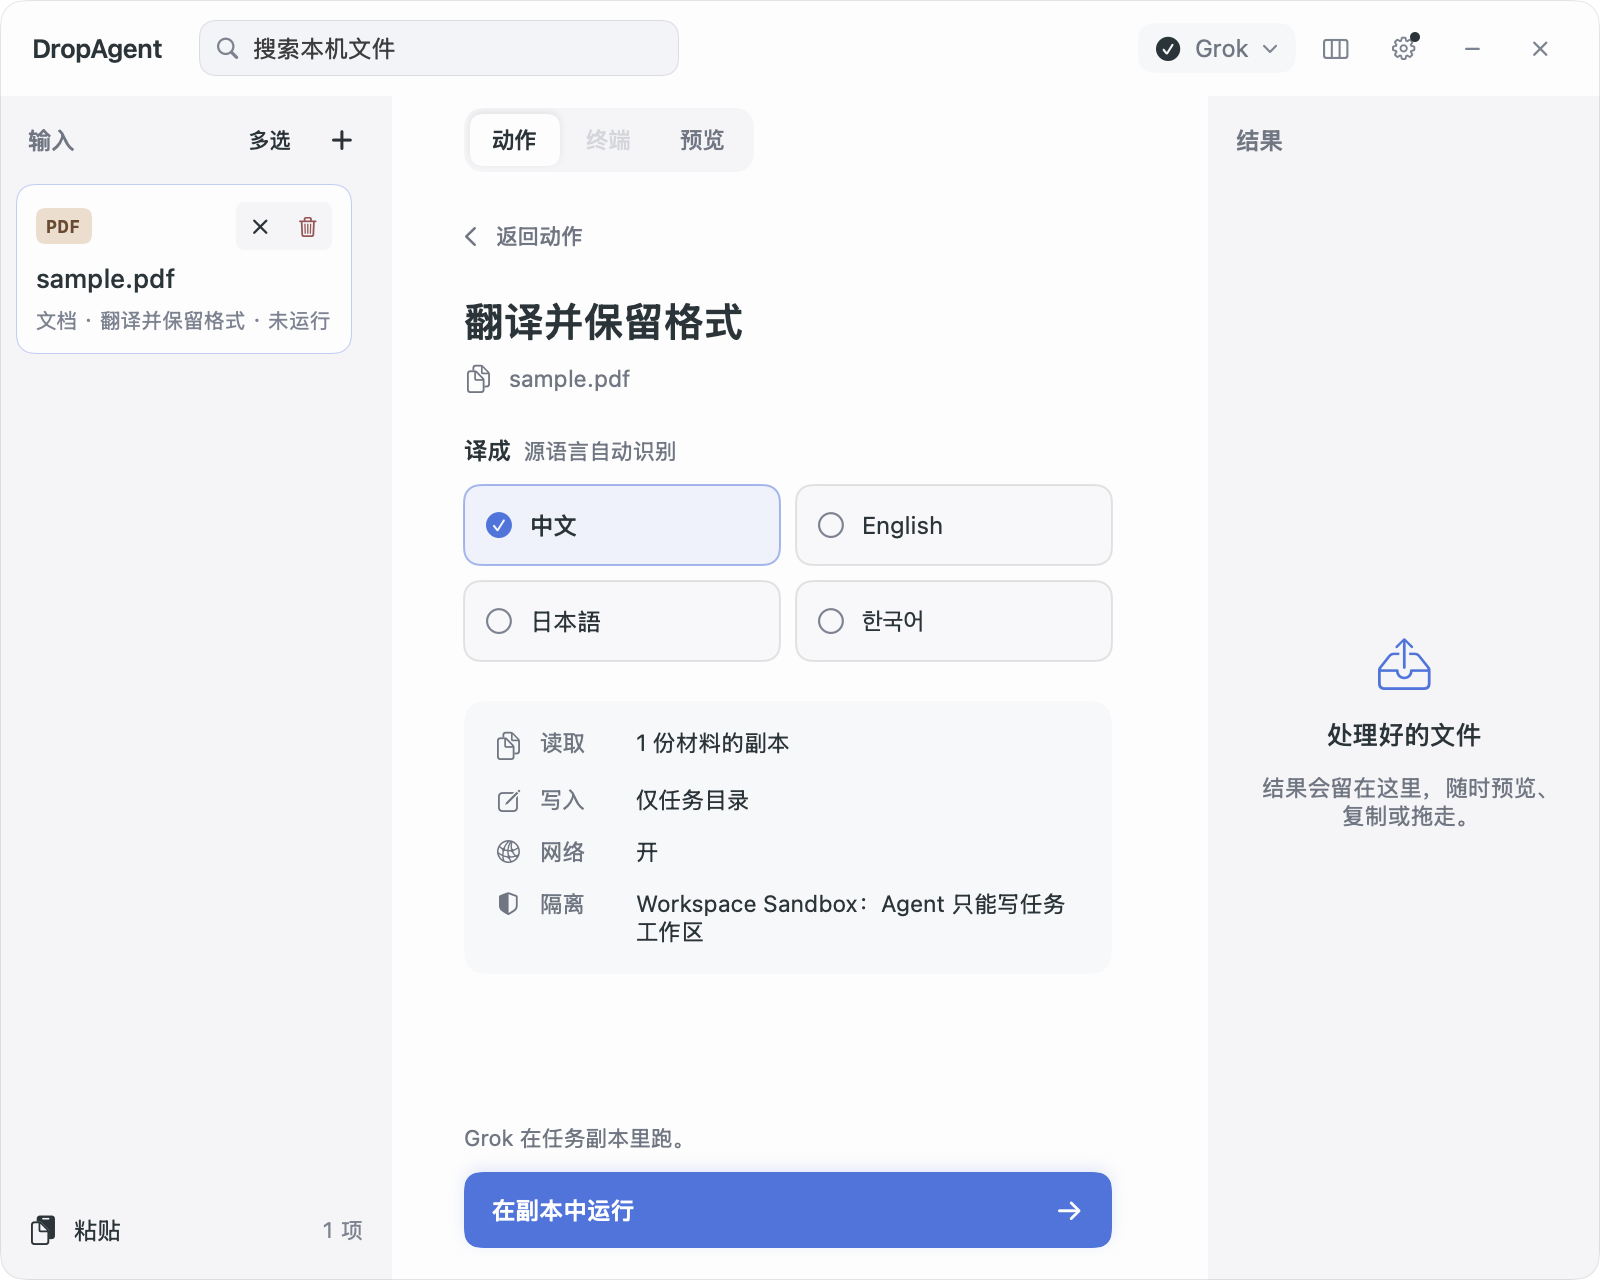
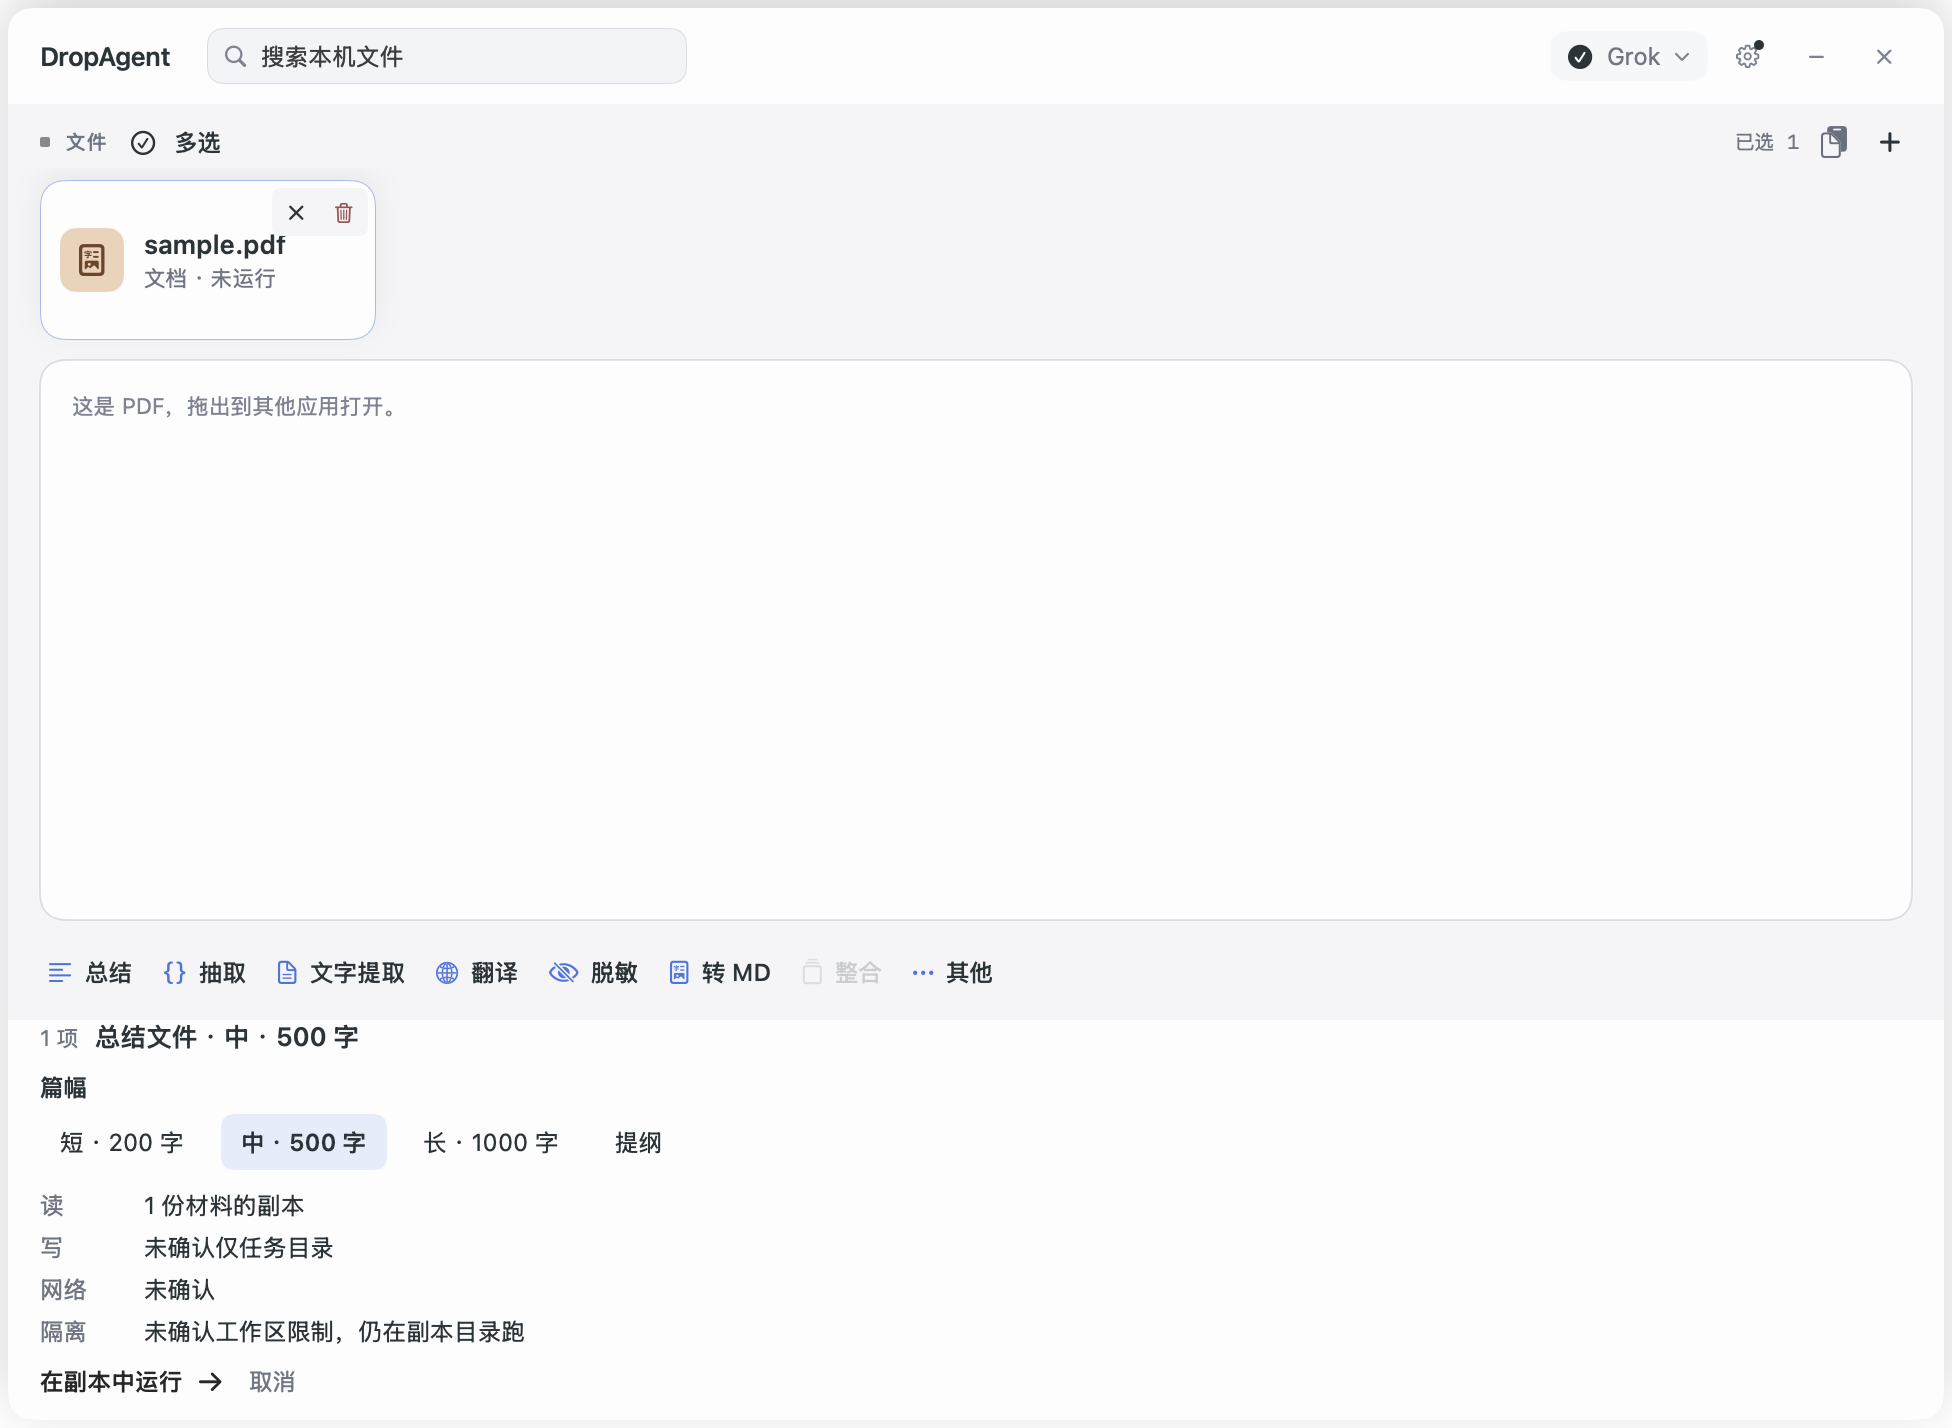
补上开源所需的许可、CI 和当前界面说明。
README 换成上下架截图，上手改为不依赖 Agent 的文字提取。没装 Grok 时跳过 live 检查。

diff --git a/macos/Check/main.swift b/macos/Check/main.swift
@@ -3508,7 +3508,7 @@ private func liveGrok() async throws {
     let agent = AgentService(runner: StubExecutor(), settings: settings, pathEnvironment: pathEnv, home: home)
     let presence = agent.tuiPresence(settings: settings)
     guard case .grok(let path, _) = presence else {
-        fail("live Grok executable not found")
+        fputs("live Grok: skipped (not installed)\n", stdout)
         return
     }
     fputs("live Grok: \(path.path)\n", stdout)

diff --git a/macos/Package.swift b/macos/Package.swift
@@ -4,6 +4,7 @@ import PackageDescription
 let package = Package(
     name: "DropAgent",
     platforms: [.macOS(.v14)],
+    // MIT. See LICENSE and NOTICE in the repository root.
     products: [
         .library(name: "DropAgentShelf", targets: ["DropAgentShelf"]),
         .library(name: "DropAgentIngest", targets: ["DropAgentIngest"]),

diff --git a/README.md b/README.md
@@ -1,32 +1,32 @@
 # DropAgent
 
-**菜单栏上的 Agent 置物架。** 把 PDF、截图或链接先放着，交给本机已经装好的 Grok、Codex、Claude 或 Gemini 处理**副本**，新文件出现在右侧，再拖走。原件不动。
+[![Check](https://github.com/molis-ai/DropAgent/actions/workflows/check.yml/badge.svg)](https://github.com/molis-ai/DropAgent/actions/workflows/check.yml)
+
+**菜单栏上的 Agent 置物架。** 把 PDF、截图或链接先放着，在副本上处理，新文件出现在结果区，再拖走。原件不动。
 
 A macOS menu bar shelf for the coding agent you already have. Stage first, run on a copy, drag the new file out.
 
-![深色模式下的菜单栏面板，左侧已有一份待处理文稿](docs/readme/panel-dark.png)
+![深色面板：上面是文件卡，中间是内容台，下面是动作](docs/readme/panel-dark.png)
 
-拖文件时，指针旁出现六瓣轮盘：加入架子、发给终端、总结、抽取、翻译、转 MD。圆心是空的；拖出外圈即消失，不开关面板。
+点一张卡，中间出现正文；下面是动作栏。取消选中则收起内容台。不把预览挂在面板外面。
 
-![拖着 artifact-v1.json 时出现的六瓣轮盘](docs/readme/wheel.png)
-
-![从空架子、选动作、运行，到右侧出现新文件](docs/readme/loop.gif)
-
-当前是可以在本机打包运行的 macOS 菜单栏工具（0.1.0）。不上 Mac App Store，也不提供云端模型。深色面板和轮盘是运行中的真实截图；循环 GIF 来自界面预览，材料是合成样例。
+当前版本 **0.1.0**，从源码打包运行。不上 Mac App Store，不提供云端模型。截图来自当前界面预览。
 
 ## 它解决什么
 
 这些 Agent 习惯对着代码仓库干活。手头却常常只是一份报价 PDF、一张截图、一篇网页：你不想 `cd` 进某个项目，也不想让它改原文件。
 
-DropAgent 给它们一个项目之外的投递口：
+1. 拖到菜单栏，或打开面板放到文件架。此时还不跑。
+2. 点开看内容。要跑动作时，先看到读什么、写哪里、是否联网、隔离是哪一档。
+3. 结果区出现新文件。上面的材料还在。把产出拖到桌面、Finder 或上传框。
 
-1. 拖到菜单栏，或打开面板放进左侧架子。此时还不跑。
-2. 选一个动作。运行前能看到读什么、写哪里、是否联网、当前是哪一档隔离。
-3. 右侧出现新文件。左侧输入还在。把产出拖到桌面、Finder 或上传框。
+![选中结果后：上面仍是原 PDF，中间是 summary.md，下面是结果卡](docs/readme/result.png)
 
-![左侧仍是 sample.pdf，右侧是新的 summary.md](docs/readme/result.png)
+成功时你看到的是：**原件还在上面，新文件在结果区，中间可以读。** 不是 Agent 启动了就算完。
 
-成功时你看到的是：**原件还在左边，新文件在右边，中间可以预览。** 不是 Agent 启动了就算完。
+拖文件时，指针旁可出现六瓣轮盘：加入架子、发给终端、总结、抽取、翻译、转 MD。圆心是空的；拖出外圈即消失。
+
+![拖着 artifact-v1.json 时出现的六瓣轮盘](docs/readme/wheel.png)
 
 ## 和现有做法差在哪
 
@@ -36,7 +36,7 @@ DropAgent 给它们一个项目之外的投递口：
 | Yoink / Dropover 只暂存 | 架子还在，但可以选动作，结果作为新文件拿走 |
 | 在终端里对着原路径开工 | 快捷动作在副本里跑；发给终端时会写明「不是副本沙箱」 |
 
-六个 CLI 动作和对应产出：
+六个 CLI 动作需要本机已装、有无界面入口的终端 Agent：
 
 | 动作 | 新文件（不改原件） |
 | --- | --- |
@@ -47,9 +47,9 @@ DropAgent 给它们一个项目之外的投递口：
 | 转 Markdown | `converted.md` |
 | 整合（至少两份材料） | `brief.md` |
 
-选中图片或 PDF 时还有「文字提取」：图片用本机 Vision 写出 `ocr.md`，PDF 抽出可选中文字写出 `pdf.md`。都不需要终端 Agent，也不上网。扫描件 PDF 会标明没有可选中的文字。
+选中图片或 PDF 时还有「文字提取」：图片用本机 Vision 写出 `ocr.md`，PDF 抽出可选中文字写出 `pdf.md`。**不需要终端 Agent，也不上网。** 扫描件 PDF 会标明没有可选中的文字。
 
-没装可用 CLI 时，不会偷偷调云端。架子仍可用来暂存和拖出。
+没装可用 CLI 时，不会偷偷调云端。架子仍可用来暂存、预览和拖出。
 
 ## 开始使用
 
@@ -57,7 +57,8 @@ DropAgent 给它们一个项目之外的投递口：
 
 - macOS 14+
 - Swift 6 工具链（Xcode 或 Command Line Tools）
-- 本机已登录的终端 Agent。预置 TUI：Grok、Claude、Gemini、OpenCode、Cursor CLI、Codex；预置纯 CLI：llm、aichat、sgpt。设置里可以加自定义 Runtime。
+
+第一次成功**不要求**已装 Grok / Codex。有 Agent 再跑总结、翻译。
 
 在仓库根目录：
 
@@ -66,38 +67,62 @@ bash macos/package-app.sh
 open macos/dist/DropAgent.app
 ```
 
-有 Developer ID 就按开发者证书签；否则做 adhoc 签名。应用在菜单栏，Dock 里没有图标。`macos/dist/` 不会进 git，每次从源码打包。
+有 Developer ID 就按开发者证书签；否则做 adhoc 签名。应用在菜单栏，Dock 里没有图标。`macos/dist/` 不进 git。
 
-第一次打开会看到三步：**放上来 → 选动作 → 拖走。** 点「放入示例文稿」，架子上出现 `先读我.md`。选「总结」，看权限条，点「在副本中运行」。成功时右侧出现 `summary.md`，左侧示例还在。
+macOS 可能拦截未公证的 App。若打不开：在 Finder 里选中 `DropAgent.app`，右键 → 打开。这不是沙箱安装包，也还没有 GitHub Release。
+
+打开后面板在菜单栏图标下方。第一次会看到三步引导。也可以点「放入示例文稿」。
+
+![首次打开的三步说明和放入示例](docs/readme/onboard.png)
+
+**不依赖 Agent 的最短路径：**
+
+1. 拖一张截图或一份可选中文字的 PDF 到文件架（或点 `+`）。
+2. 点那张卡，中间出现内容。
+3. 点「文字提取」，看权限条（本机抽字、不发送），再「在副本中运行」。
+4. 结果区出现 `ocr.md` 或 `pdf.md`。上面的原件还在，可以拖走结果。
 
 ![运行前的权限条：读副本、写任务目录、网络、隔离档](docs/readme/confirm.png)
 
-隔离按探测结果写。Codex / Gemini 在官方能力支持时显示 Workspace Sandbox；Claude 和自定义 CLI 是 Safe Copy（原件不被 DropAgent 覆盖，宿主进程仍可能访问其他位置）。探测不到就写「未确认」，不会把未验证的限制说成严格沙箱。第一版没有容器级 Strict Isolation。
+CLI 动作的隔离按探测结果写。Codex / Gemini 在官方能力支持时显示 Workspace Sandbox；Claude 和自定义 CLI 是 Safe Copy（原件不被 DropAgent 覆盖，宿主进程仍可能访问其他位置）。探测不到就写「未确认」，不会把未验证的限制说成严格沙箱。第一版没有容器级 Strict Isolation。
+
+### 权限
+
+只暂存、预览、文字提取：不需要辅助功能。
+
+抓当前网页（⌃⌥W）会申请：
+
+- 辅助功能：读前台浏览器的地址和标题
+- 自动化：问 Safari / Chrome / Edge 当前网址
+- 屏幕截图：给前台窗口拍一张
+
+拒绝后仍可拖文件、粘贴、抽字。系统对话框里的说明见 App 的用途字符串。
 
 默认快捷键（设置里可改）：
 
 | 快捷键 | 作用 |
 | --- | --- |
 | ⌃⌥D | 打开 / 关闭面板 |
-| ⌃⌥W | 把当前 Safari / Chrome / Edge 页加入架子（网址、正文 Markdown、窗口截图；不装扩展） |
+| ⌃⌥W | 把当前 Safari / Chrome / Edge 页加入架子 |
 | ⌃⌥A | 加入前台选中的本地文件 |
 | ⌘V | 从剪贴板贴入 |
 
 ## 换成自己的材料
 
-示例跑通之后，把 `先读我.md` 换成自己的文件即可。
+把示例换成自己的文件即可。
 
-- 拖 PDF、图片、文件夹、文本或链接到**左侧**，或点 `+`、搜索本机文件。
-- 拖到**中间**是发给当前终端，不是加入架子。
+- 拖 PDF、图片、文件夹、文本或链接到**文件架**，或点 `+`、搜索本机文件。
+- 点「其他」打开对话浮窗。拖到浮窗是发给当前终端，不是加入架子。
 
-![拖入时左侧加入架子，中间发给当前 Agent](docs/readme/drop-zones.png)
+![拖到文件架时高亮「加入架子」](docs/readme/drop-zones.png)
 
 - 浏览器最前时按 ⌃⌥W 抓当前页。拖入或粘贴网址也会去抓正文；登录墙后的正文不承诺能拿到。
 - 多选后用「整合」得到一份 `brief.md`。
-- 点「其他」写一句话，连同选中材料发给终端。那一次走该 Agent 自己的权限，界面会写明不是副本沙箱。
-- 结果可复制、拖到别的窗口，或拖回左侧当新材料。多选时一次拖出所选项，复制不是挪走。网站抓取拖出的是文件夹：链接、`page.md`、截图。
+- 结果可复制、拖到别的窗口，或「放到上面当材料」。多选时一次拖出所选项。网站抓取拖出的是文件夹：链接、`page.md`、截图。
 
-轮盘可在设置 → 外观关掉。关掉后，菜单栏图标和左侧列表仍接拖入。
+轮盘可在设置 → 外观关掉。关掉后，菜单栏图标和文件架仍接拖入。
+
+预置 TUI：Grok、Claude、Gemini、OpenCode、Cursor CLI、Codex。预置纯 CLI：llm、aichat、sgpt。设置里可以加自定义 Runtime。
 
 ## 现在不会做的
 
@@ -106,10 +131,15 @@ open macos/dist/DropAgent.app
 - 不解析 TUI 画面，不模拟键盘去点终端菜单。
 - 不接云端 API / Ollama，不上 Mac App Store。
 - 不为某一家办公套件、聊天软件或 AI 桌面做插件。
+- 不把扫描件 PDF 当成已经 OCR 完成。
+
+## 许可
+
+[MIT](LICENSE)。终端内嵌用了 [SwiftTerm](NOTICE)（MIT）。
 
 ## 开发
 
-产品事实以 [`01-requirements.md`](01-requirements.md)、[`02-prototype-design.md`](02-prototype-design.md) 为准。分包和禁区见 [`AGENTS.md`](AGENTS.md) 与 [`03-tech-architecture.md`](03-tech-architecture.md)。
+产品事实以 [`01-requirements.md`](01-requirements.md)、[`02-prototype-design.md`](02-prototype-design.md) 为准。怎么改见 [`CONTRIBUTING.md`](CONTRIBUTING.md)。漏洞请走 [`SECURITY.md`](SECURITY.md)。
 
 ```bash
 cd macos && swift run DropAgentCheck
@@ -117,4 +147,4 @@ cd macos && swift build --product DropAgent
 DROPAGENT_ROOT=/tmp/dropagent-preview-root macos/.build/debug/DropAgent --preview
 ```
 
-`--preview` 会把当前界面各状态写到 `/tmp/dropagent-preview/`。循环 GIF 和权限 / 结果静帧来自这次输出。
+`--preview` 把当前界面各状态写到 `/tmp/dropagent-preview/`。

diff --git a/specs/open-source-ready/spec.md b/specs/open-source-ready/spec.md
@@ -1,0 +1,51 @@
+# 按开源项目标准公开
+
+## 背景与目标
+
+仓库能打包试用，但还不能当开源项目公开：没有许可证、GitHub 仍是私有、README 截图还是旧三栏。补齐外人能看懂、能编译、能判断怎么用的最小公开面，再把仓库改成 public。
+
+## 当前行为与问题证据
+
+- `molis-ai/DropAgent` 为 private，不允许 fork。
+- 无 `LICENSE`。依赖 SwiftTerm（MIT）未声明。
+- README 首图仍是左输入 / 中动作 / 右结果。
+- 第一次成功路径写成「选总结」，没装 CLI 的人会卡住。
+- 无 CI、无贡献说明、无漏洞反馈入口。
+- `docs/验收/` 是内部验收，截图过期。
+- `DropAgentCheck` 在本机没装 Grok 时会 fail `liveGrok`。
+
+## 范围
+
+- MIT 许可证 + SwiftTerm NOTICE。
+- README 换成当前界面（上文件、中内容台、下结果区），上手改为不依赖 Agent 的「文字提取」。
+- 用 `--preview` 现拍静帧替换过期截图；拿掉旧三栏 GIF。
+- GitHub Actions 跑 `swift run DropAgentCheck`。
+- CONTRIBUTING、SECURITY。
+- `docs/验收` 标明内部历史，不删记录。
+- Check：没装 Grok 时跳过 live Grok，不 fail。
+- 提交后把仓库改为 public，并允许 fork。
+
+## 非目标
+
+- 不改 Bundle ID、不公证、不发 GitHub Release / dmg。
+- 不把 OCR 做成主产品。
+- 不重写 120 份 spec。
+- 不把 `.impeccable/` 纳入 git。
+
+## 验收标准
+
+1. 根目录有 MIT `LICENSE`；README 写明许可并链到它。
+2. README 截图是当前上下架布局，不是三栏。
+3. 上手路径不要求已装 CLI Agent。
+4. `.github/workflows/check.yml` 在 macos runner 上跑 DropAgentCheck。
+5. 无 Grok 时 `swift run DropAgentCheck` 仍可通过（跳过 live Grok）。
+6. 仓库 public，允许 fork。
+
+## 验证命令
+
+```bash
+cd macos && swift run DropAgentCheck
+cd macos && swift build --product DropAgent
+DROPAGENT_ROOT=/tmp/dropagent-preview-root macos/.build/debug/DropAgent --preview
+gh repo view molis-ai/DropAgent --json isPrivate,url
+```

diff --git a/CONTRIBUTING.md b/CONTRIBUTING.md
@@ -1,0 +1,31 @@
+# 参与 DropAgent
+
+产品事实以 `01-requirements.md`、`02-prototype-design.md` 为准。模块边界见 `03-tech-architecture.md` 和 `design/modules/`。
+
+## 环境
+
+- macOS 14+
+- Swift 6（Xcode 或 Command Line Tools）
+
+## 检查
+
+在 `macos/` 下：
+
+```bash
+swift run DropAgentCheck
+swift build --product DropAgent
+```
+
+本机没装 Grok 时，live Grok 检查会跳过，其余仍应通过。抓页、真实终端会话依赖本机权限和已装 Agent，不作为默认门槛。
+
+图形端到端（需要本机 GUI）：
+
+```bash
+DROPAGENT_ROOT=/tmp/dropagent-e2e-live macos/.build/debug/DropAgent --e2e
+```
+
+## 改行为
+
+会改变界面、Recipe 或数据规则时，先写或更新 `specs/<task>/spec.md`，再改代码。不要在 `prototype/index.html` 里发明内核没有的规则。
+
+不要：覆盖用户原件、接云端 API、解析 TUI 画面、加载用户全局 MCP / Hooks。

diff --git a/SECURITY.md b/SECURITY.md
@@ -1,0 +1,19 @@
+# 安全反馈
+
+DropAgent 在本机复制用户文件、读剪贴板、并可申请辅助功能 / 自动化 / 屏幕截图，以便把材料放上架子。请不要把真实密钥或私人文件贴进 Issue。
+
+## 报告漏洞
+
+请用 GitHub 的 [Security Advisories](https://github.com/molis-ai/DropAgent/security/advisories/new) 私下说明：
+
+- 影响哪个版本（commit 或 `CFBundleShortVersionString`）
+- 怎么复现
+- 实际读到或写到了什么
+
+不要在公开 Issue 里贴可利用细节。
+
+## 范围
+
+在范围内：未授权读到原件路径之外的用户文件、把材料发到非本机进程、签名绕过。
+
+不在范围内：用户自己把文件拖给已装的终端 Agent 之后，该 Agent 按自己的权限做事。发给终端时界面会写明「不是副本沙箱」。

diff --git a/docs/验收/README.md b/docs/验收/README.md
@@ -1,0 +1,5 @@
+# 内部验收记录
+
+这里是 2026-09-08 两轮打磨的现场记录和日志。截图还是当时的三栏布局，**不是**现在的上文件 / 中内容台 / 下结果区。
+
+给后来改代码的人核对当时怎么验的，不给第一次来的用户当产品说明。当前用法看根目录 `README.md`。

diff --git a/specs/README.md b/specs/README.md
@@ -1,0 +1,5 @@
+# Specs
+
+每份 `specs/<task>/spec.md` 是一次行为改动的工作记录：范围、验收、验证命令。不是用户手册。
+
+当前产品以 `01-requirements.md`、`02-prototype-design.md` 和根目录 `README.md` 为准。
